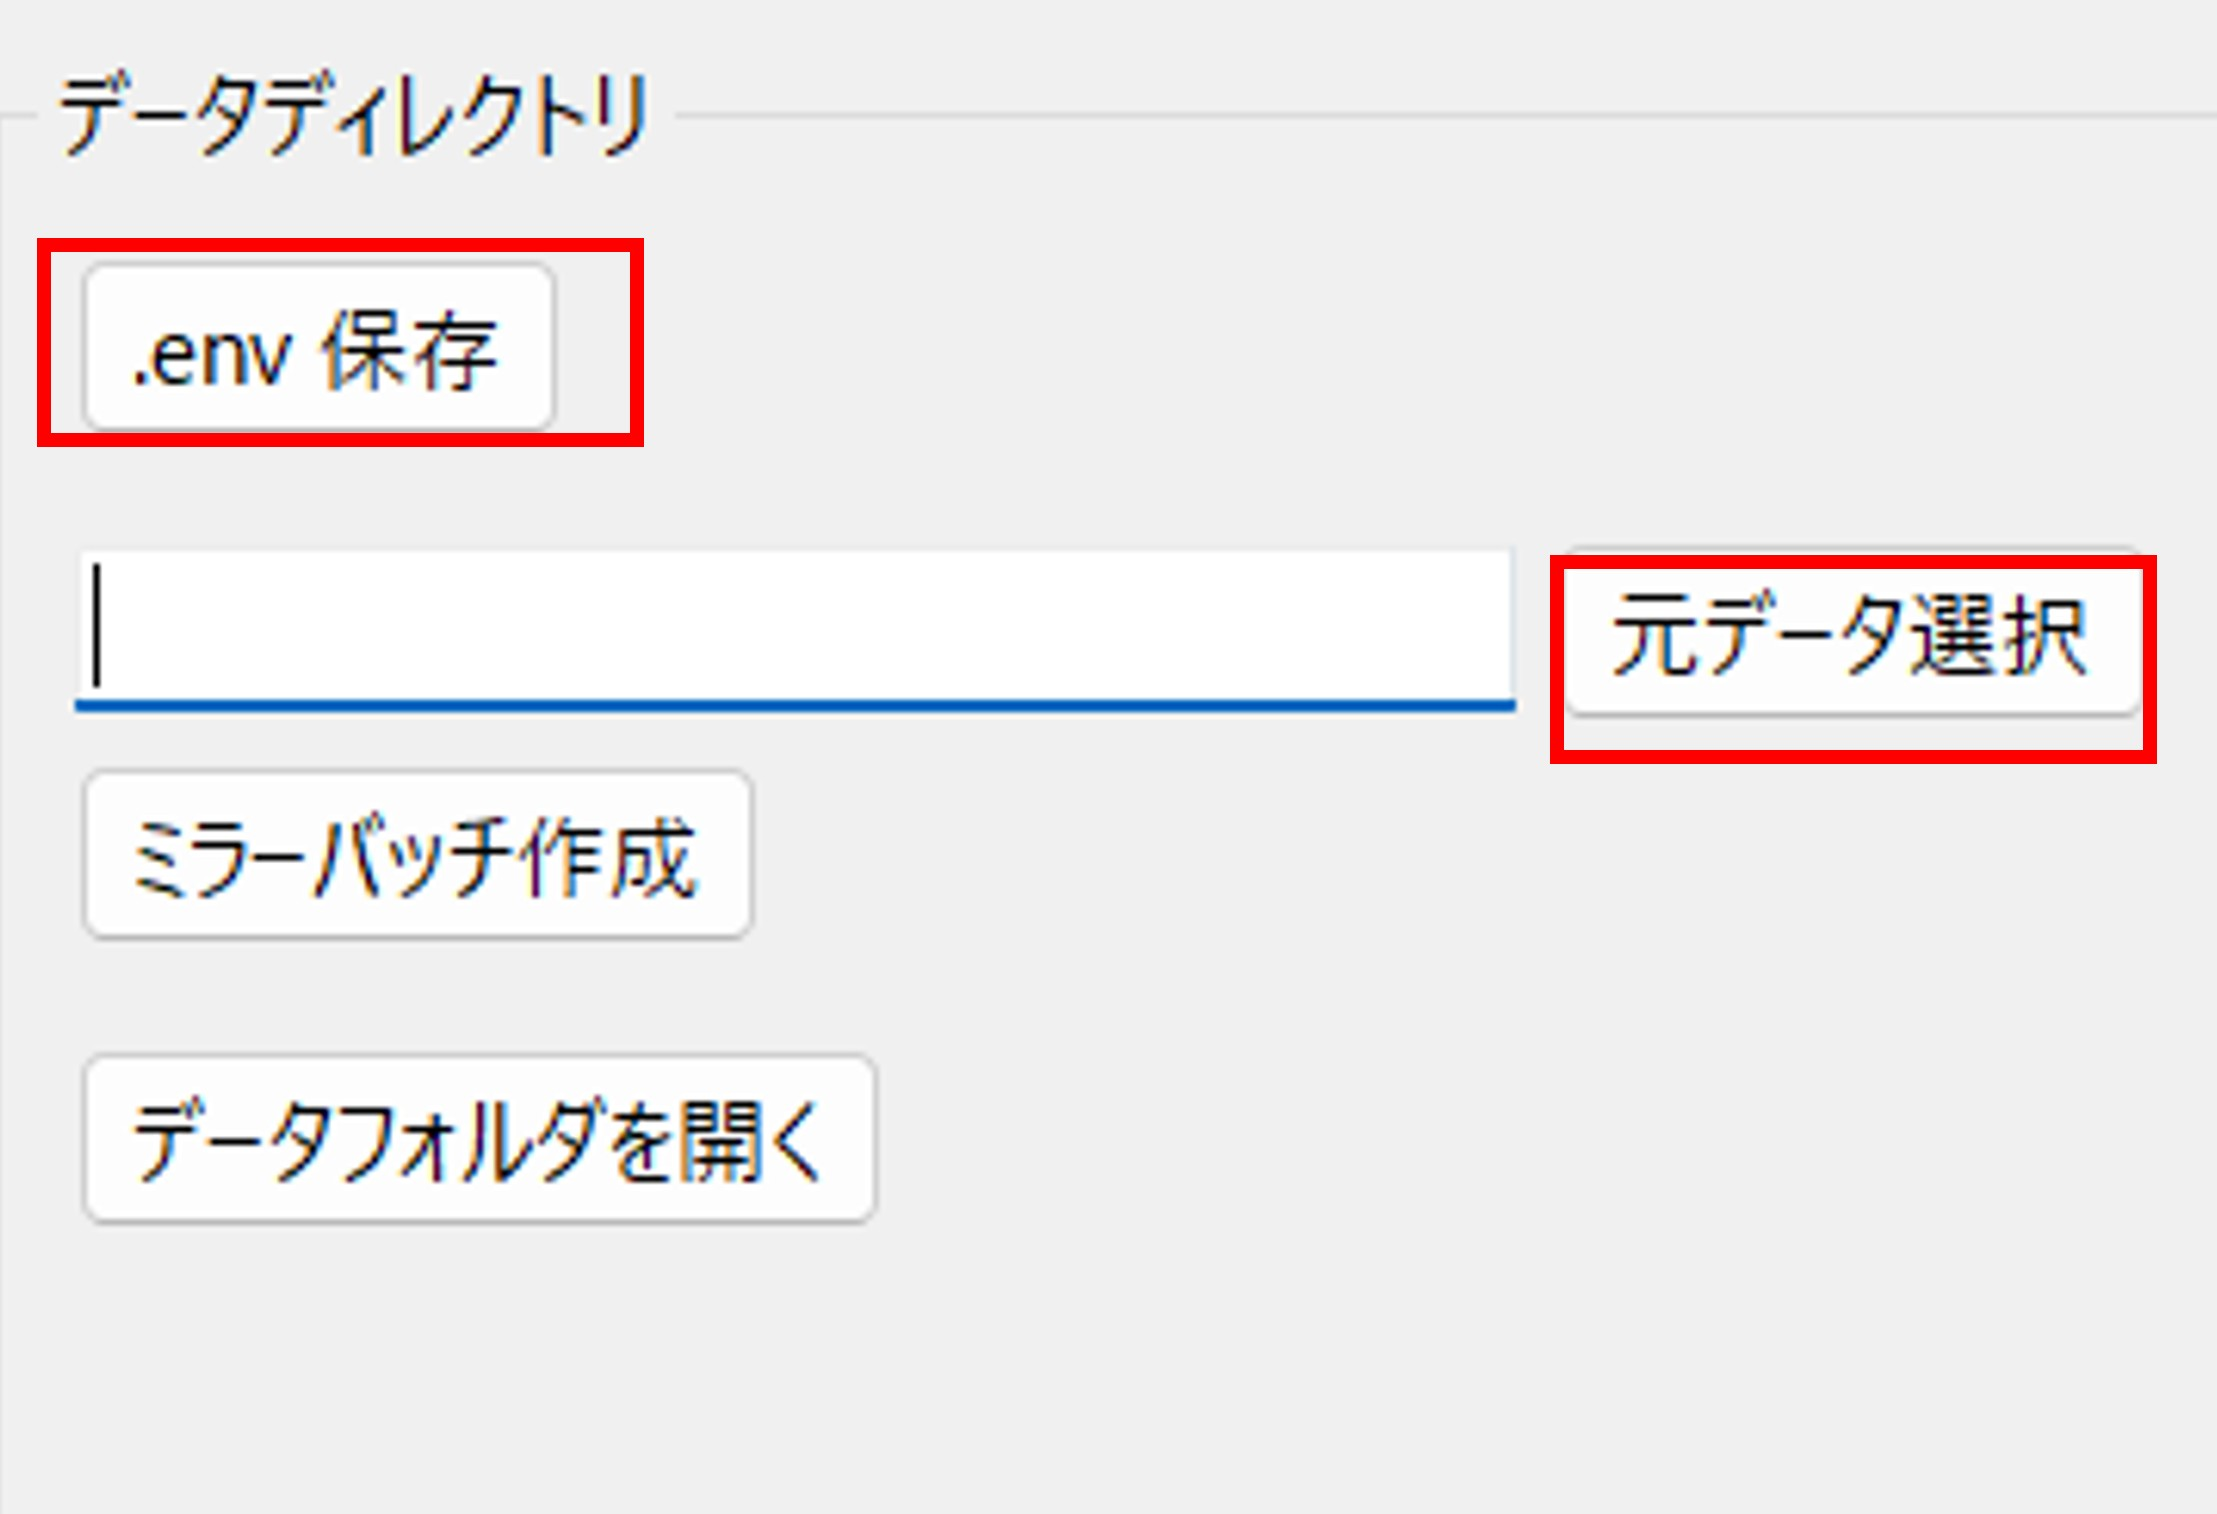
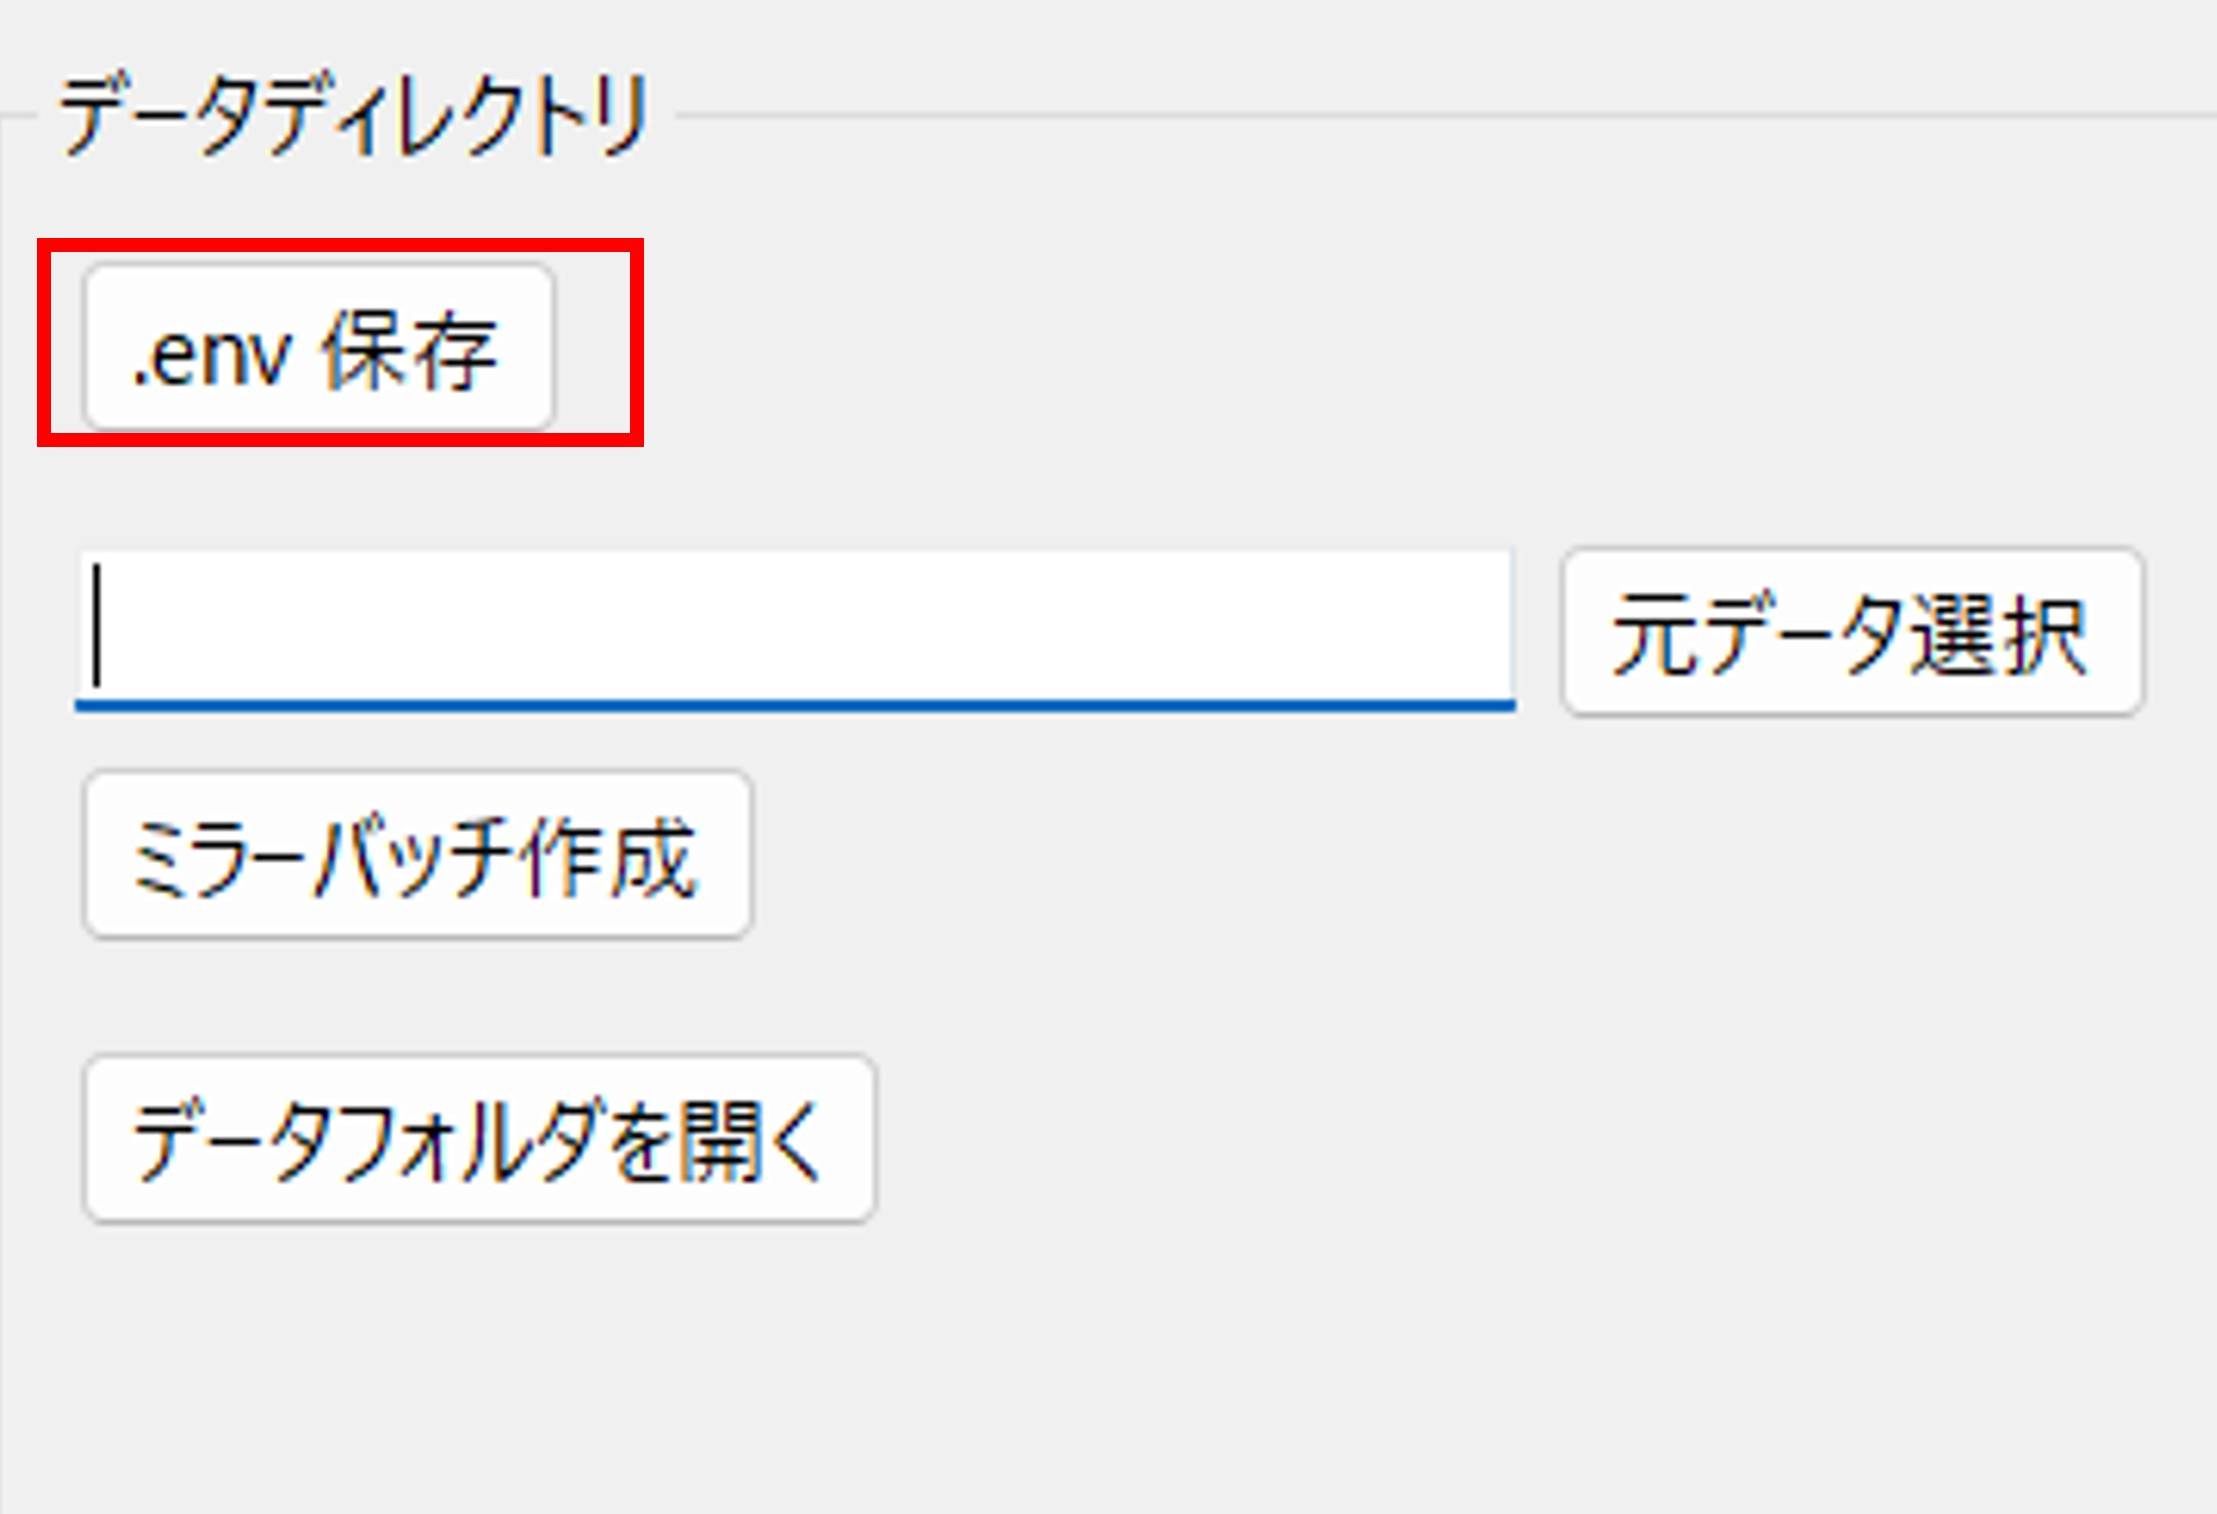
install manual revised

Changed region(s): [[0.6847, 0.3415, 0.9959, 0.5277]]

diff --git a/Form1.cs b/Form1.cs
@@ -3,7 +3,7 @@ namespace PhantomManager;
 
 public partial class Form1 : Form
 {
-    private const string AppVersion = "v1.0.6";
+    private const string AppVersion = "v1.0.7";
     private const string FixedEnvSrcDir = "./var/internet-app-data";
     private readonly TextBox _releasePathBox = new();
     private readonly TextBox _origDirBox = new();
